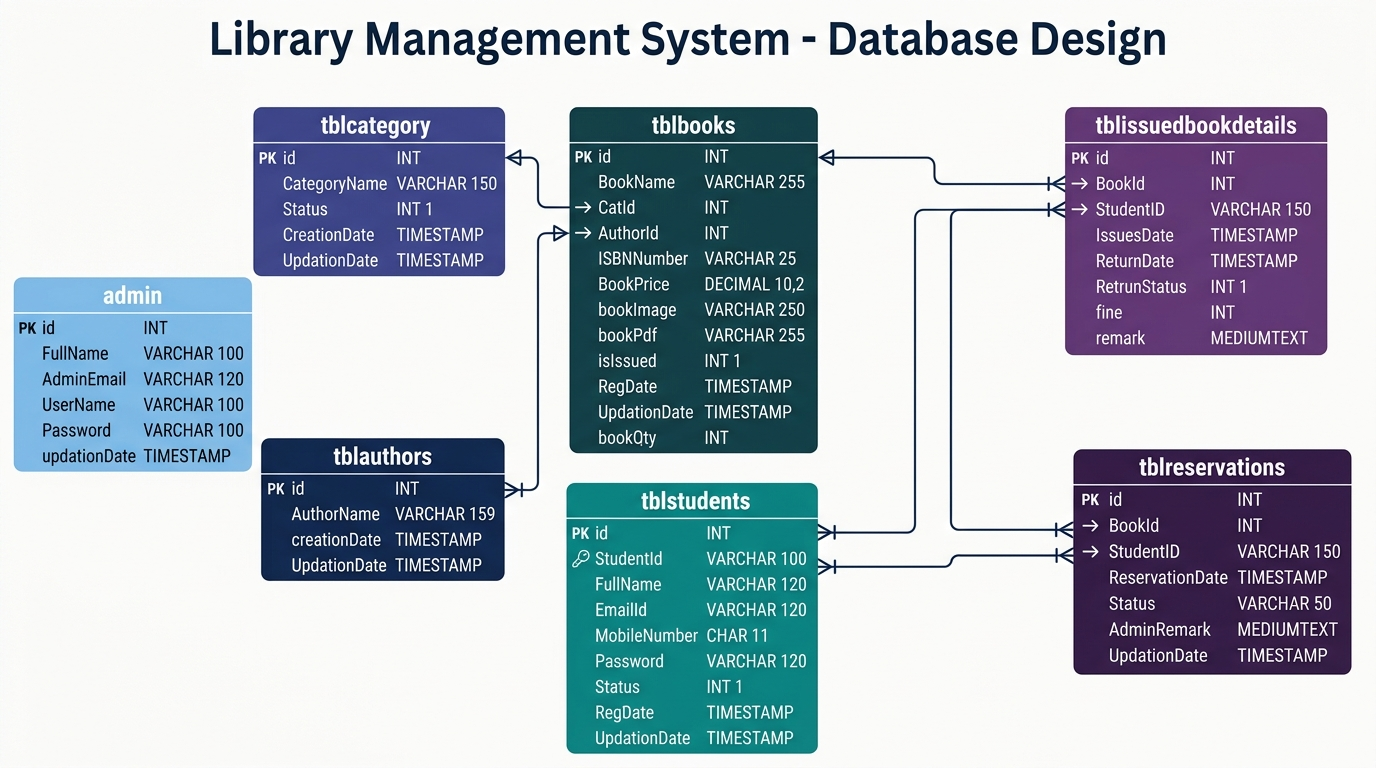
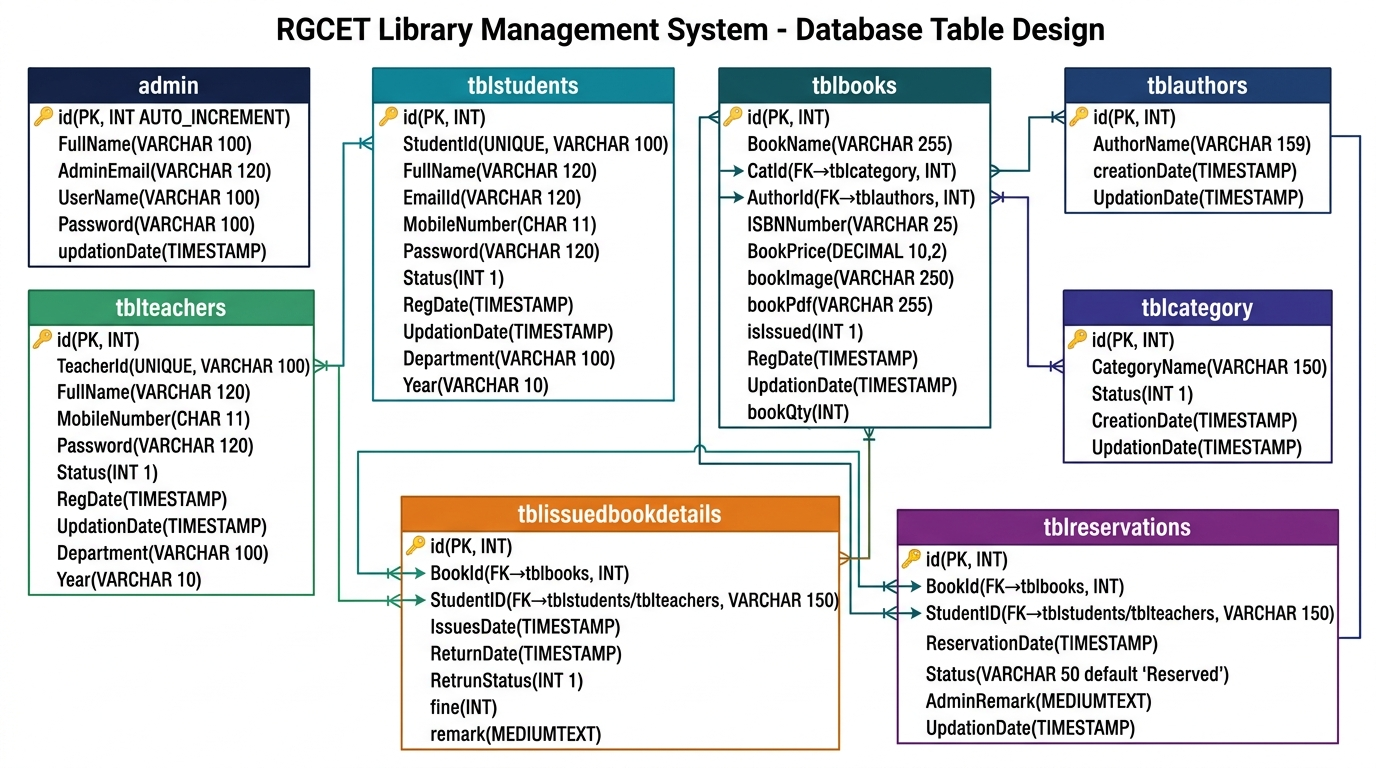
Diagrams Updation

diff --git a/README.md b/README.md
@@ -52,3 +52,41 @@ A modern, robust PHP-based Library Management System (LMS) designed to handle bo
 3. Users browse `listed-books.php` to reserve books or join the waitlist.
 4. Admin reviews active reservations in `manage-reservations.php` and issues physical copies.
 5. Users return books at the counter, the Admin marks them as returned, and the waitlist engine seamlessly routes the freed book to the next person in line.
+
+### Waitlist & Reservation Flow Diagram
+
+```mermaid
+stateDiagram-v2
+    [*] --> InStock: User Clicks Reserve
+    [*] --> OutOfStock: User Clicks Join Waitlist
+    
+    InStock --> Reserved: Book Reserved (3-Day Limit)
+    OutOfStock --> Waitlist: Added to Queue
+    
+    Reserved --> Collected: Admin Issues Book
+    Reserved --> Cancelled: User/Admin Cancels
+    Reserved --> Expired: 3 Days Pass
+    
+    Collected --> Returned: Admin Marks Returned
+    
+    Waitlist --> Reserved: Auto-Promoted (on Return/Cancel)
+    Waitlist --> Cancelled: User/Admin Cancels
+```
+
+### Database Entity Relationship
+
+```mermaid
+erDiagram
+    ADMIN ||--o{ TBLBOOKS : manages
+    TBLAUTHORS ||--o{ TBLBOOKS : writes
+    TBLCATEGORY ||--o{ TBLBOOKS : categorizes
+    
+    TBLSTUDENTS ||--o{ TBLRESERVATIONS : makes
+    TBLTEACHERS ||--o{ TBLRESERVATIONS : makes
+    
+    TBLBOOKS ||--o{ TBLRESERVATIONS : reserved_in
+    TBLBOOKS ||--o{ TBLISSUEDBOOKDETAILS : issued_in
+    
+    TBLSTUDENTS ||--o{ TBLISSUEDBOOKDETAILS : borrows
+    TBLTEACHERS ||--o{ TBLISSUEDBOOKDETAILS : borrows
+```
